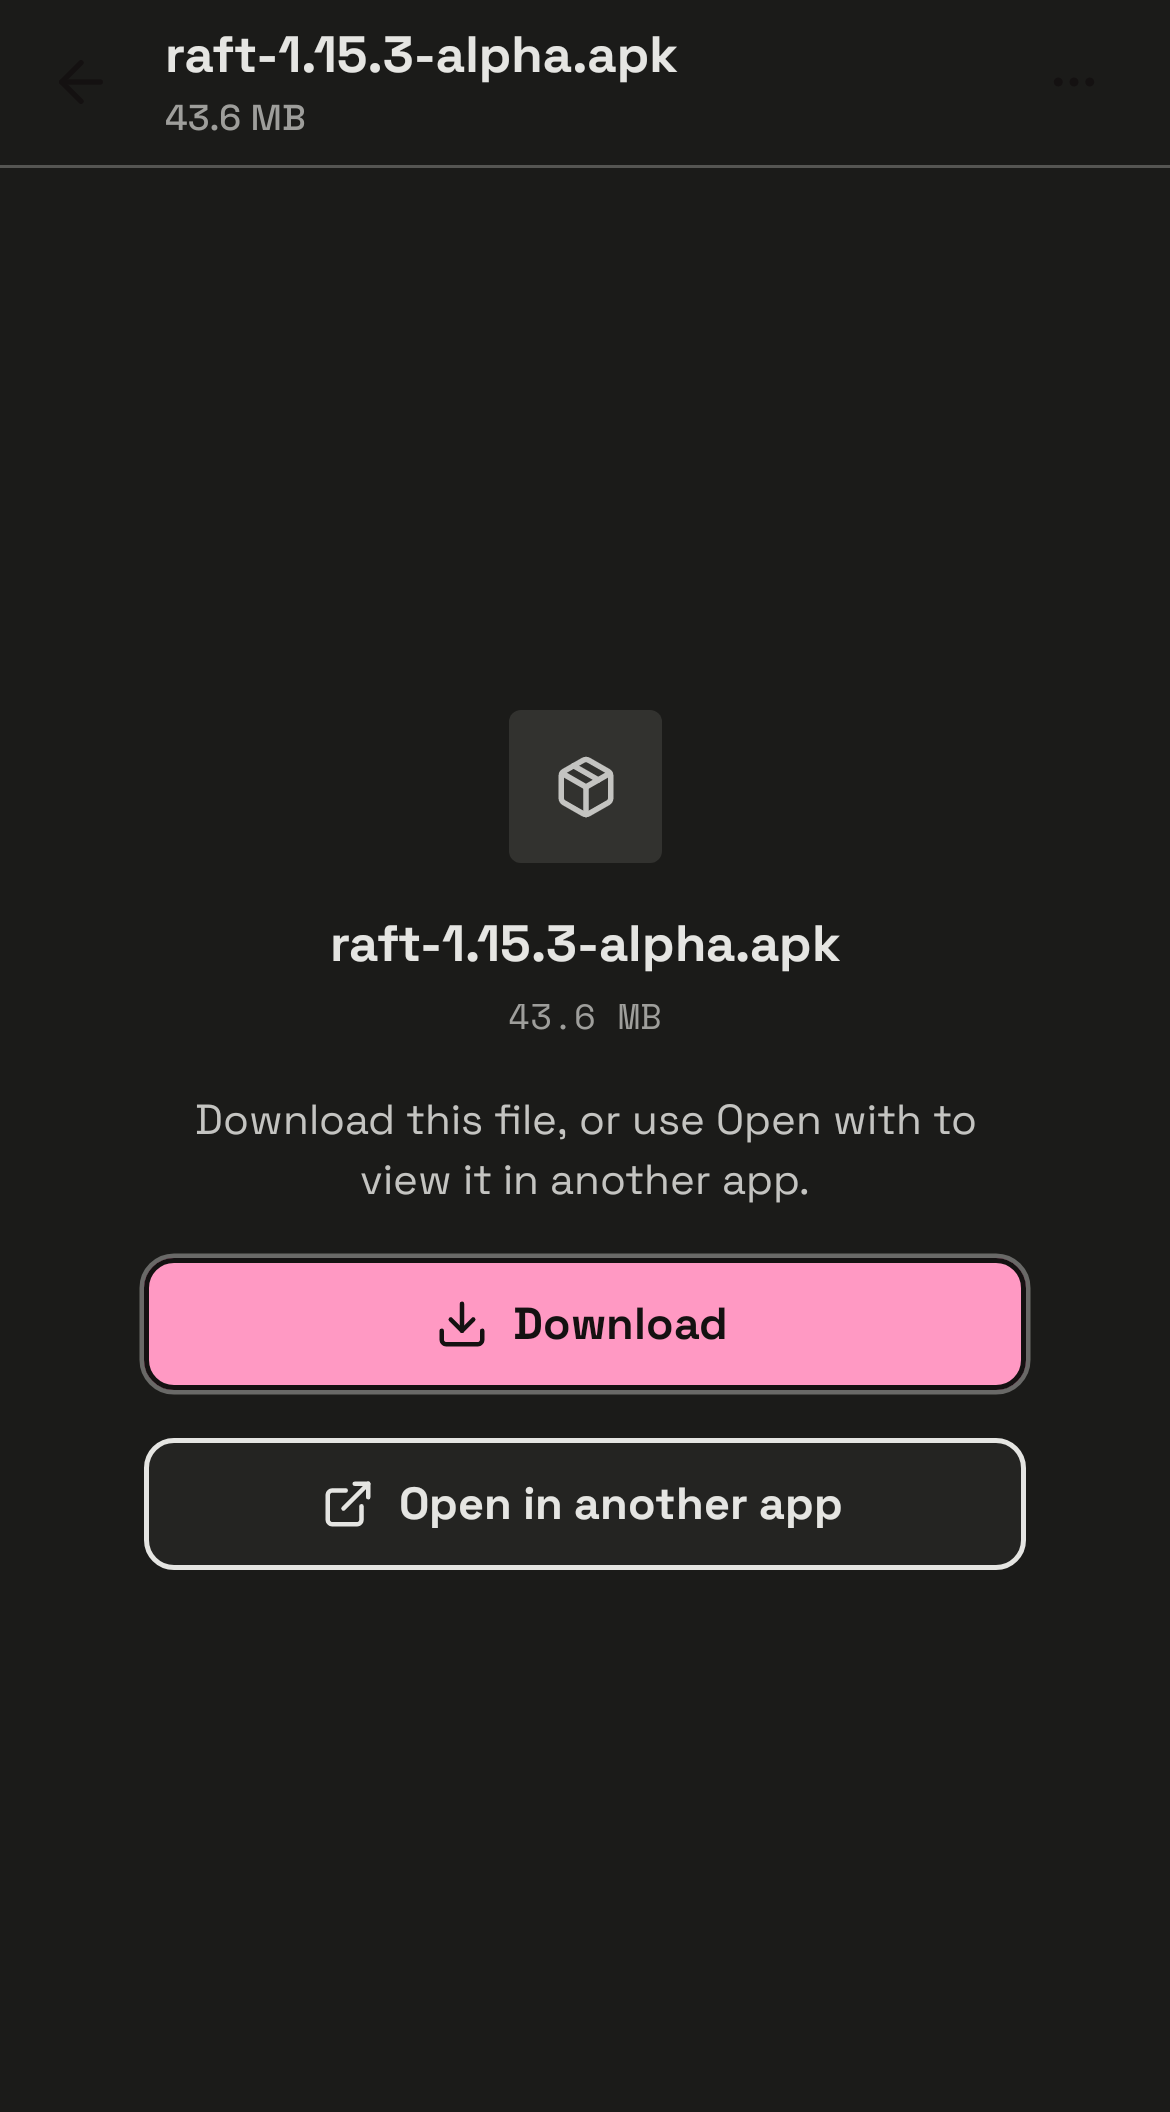
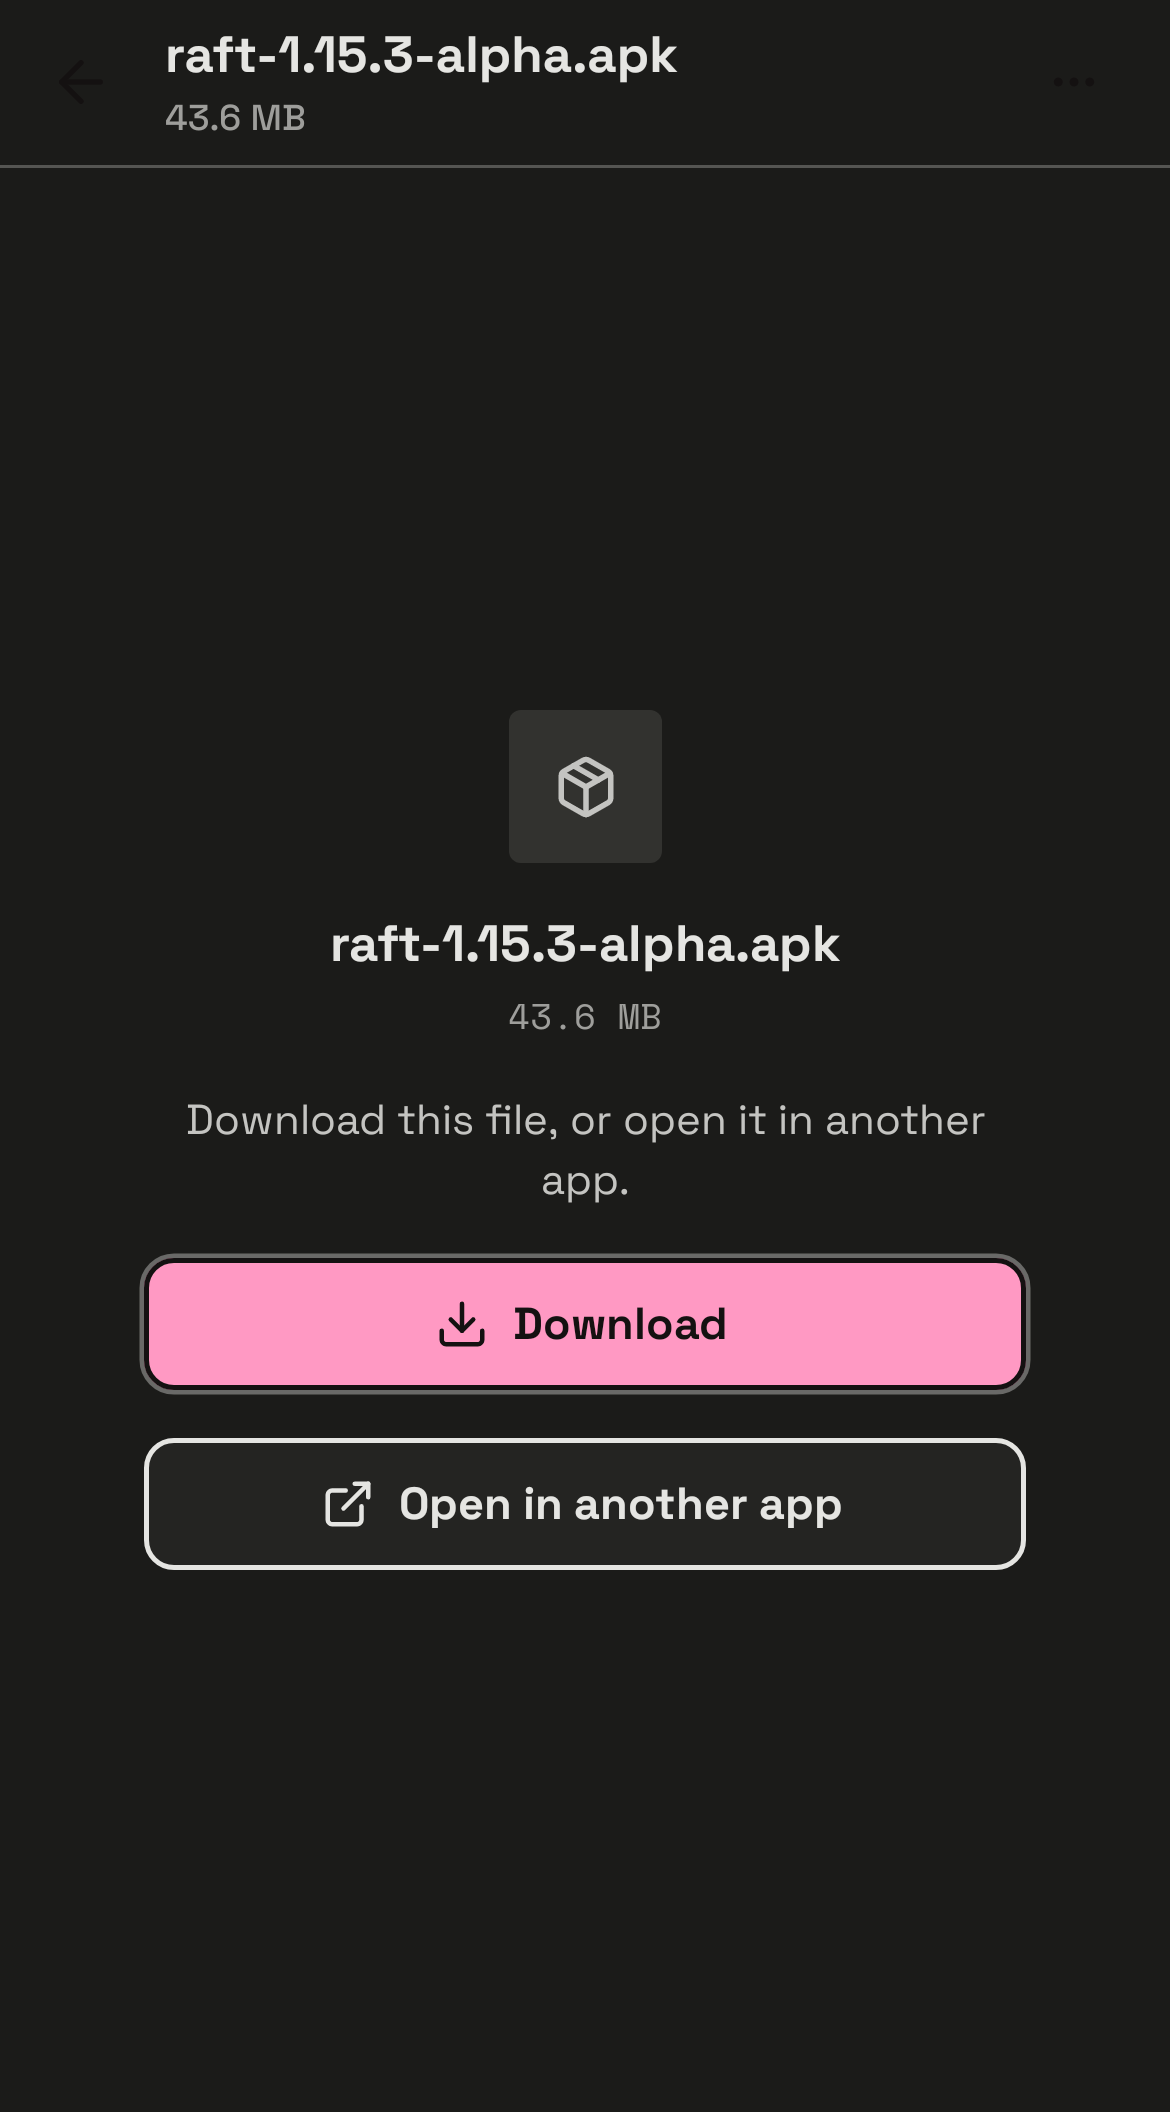
fix(files,i18n): align file preview fallback helper copy with Open in another app across 8 locales (#5542)
* fix(files,i18n): align file preview fallback helper copy with Open in another app across 8 locales

* chore(files,changelog): record 3 updated Roborazzi goldens and bind PR #5542

---------

diff --git a/compose/shared/src/androidUnitTest/kotlin/build/raft/app/FilePreviewFallbackOpenInOtherAppUiTest.kt b/compose/shared/src/androidUnitTest/kotlin/build/raft/app/FilePreviewFallbackOpenInOtherAppUiTest.kt
@@ -96,6 +96,7 @@ class FilePreviewFallbackOpenInOtherAppUiTest {
                 )
             showPreview(payload, calls, downloadState = RaftFilePreviewDownloadUiState.NotDownloaded)
 
+            onNodeWithText("Download this file, or open it in another app.").assertExists()
             onNodeWithText("Download").assertExists()
             onNodeWithText("Open in browser").assertDoesNotExist()
             onNodeWithText("Open in another app").assertExists().assertIsEnabled().performClick()

diff --git a/change-logs/1.29.0/changesets/file-preview-open-in-other-app-copy.md b/change-logs/1.29.0/changesets/file-preview-open-in-other-app-copy.md
@@ -1,0 +1,22 @@
+---
+type: fixed
+area: attachments
+platforms:
+  - android
+  - ios
+  - desktop
+pull_request: 5542
+rollout: full
+---
+
+## zh-CN
+
+文件预览回退卡片的提示文案已与“在其他应用中打开”按钮保持一致，补齐 8 种语言，不再提及旧的“打开方式”。
+
+## en
+
+Aligned the file preview fallback card helper copy across all 8 locales with the "Open in another app" button, replacing stale "Open with" references.
+
+## ja
+
+ファイルプレビューのフォールバックカードに表示される案内文を「他のアプリで開く」ボタンに合わせて 8 言語すべてで統一し、旧来の「アプリで開く」表記を解消しました。
